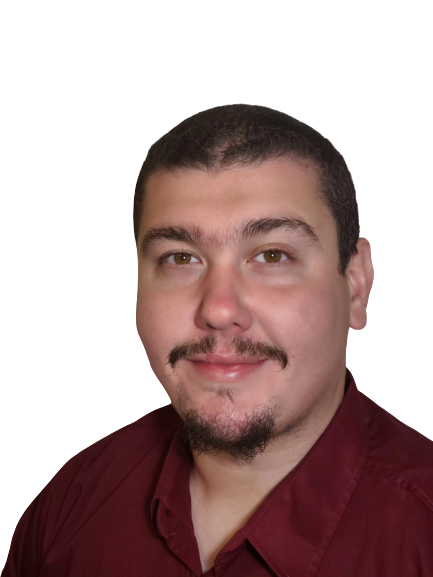
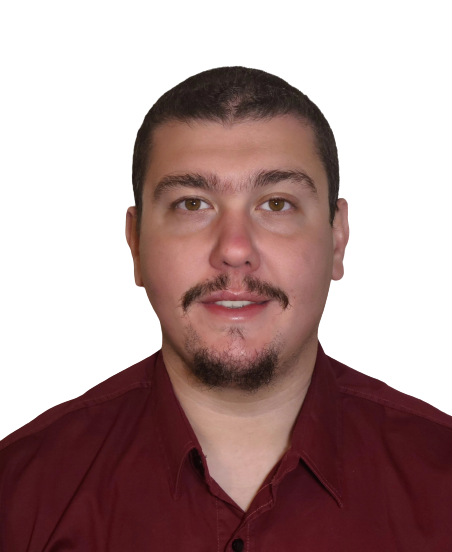
changed intro photo
Changed the intro photo

diff --git a/src/components/intro/intro.scss b/src/components/intro/intro.scss
@@ -10,19 +10,19 @@
     overflow: hidden;
 
     .imgContainer {
-      width: 800px;
+      width: 700px;
       height: 700px;
       background-color: $maincolor;
       border-radius: 50%;
       display: flex;
       align-items: flex-end;
-      justify-content: flex-start;
-      // float: right;
-      margin-top: 15%;
+      justify-content: center;
+      float: right;
+      // margin-top: 15%;
       animation: backInLeft 2s; /* referring directly to the animation's @keyframe declaration */
 
       img {
-        height: 110%;
+        height: 105%;
       }
     }
   }

diff --git a/src/components/portfolio/Portfolio.jsx b/src/components/portfolio/Portfolio.jsx
@@ -3,7 +3,17 @@ import "./portfolio.scss"
 export default function Portfolio() {
     return (
         <div className="portfolio" id="portfolio">
-            Portfolion Page
+            <h1>Portfolio</h1>
+            <ul>
+                <li>Featured</li>
+                <li>Web App</li>
+                <li>Contribution</li>
+            </ul>
+            <div className="container">
+                <div className="item">
+                    Weather App
+                </div>
+            </div>
         </div>
     )
 }
